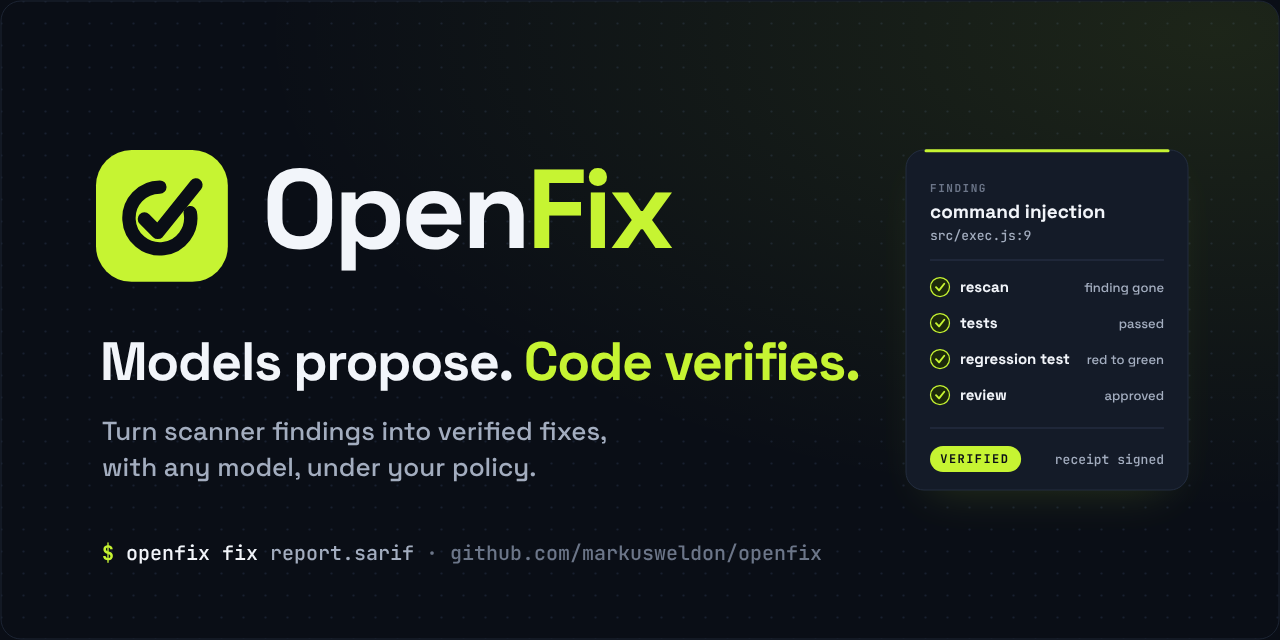
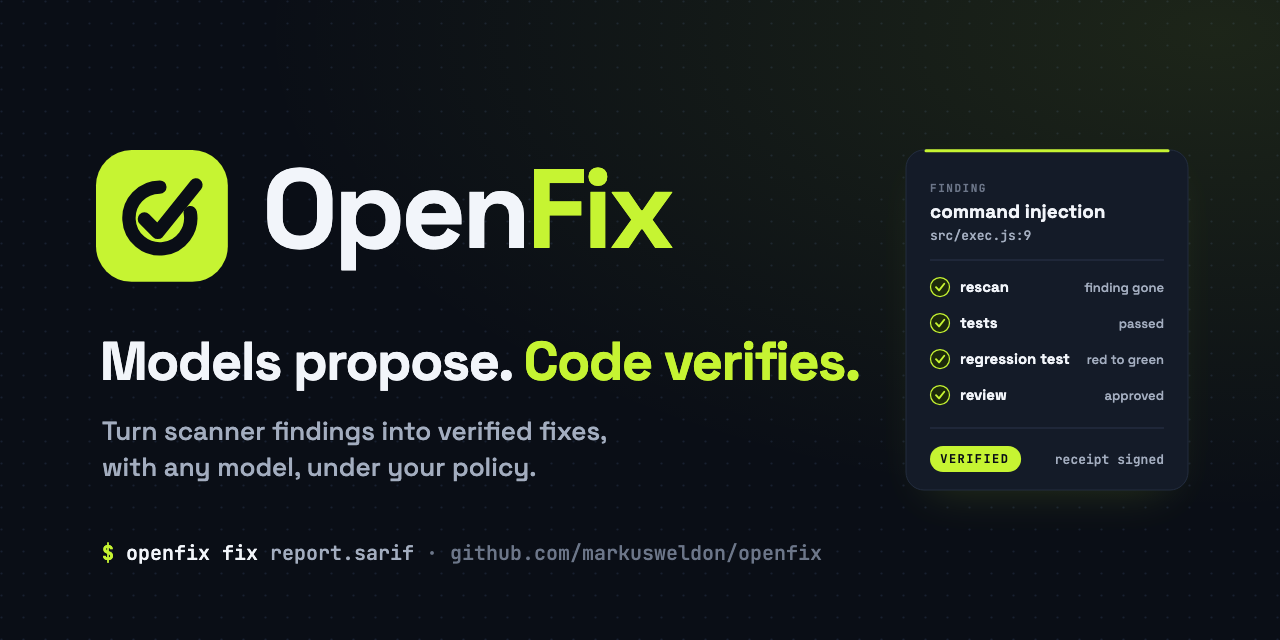
Render the social preview edge to edge
The social image drew the rounded, framed card used by the README
diagrams, which left a thin frame line around the link card. GitHub and
LinkedIn crop and round social images themselves, so it now fills the
whole canvas. The README images are unchanged.

diff --git a/docs/brand/build.py b/docs/brand/build.py
@@ -223,18 +223,22 @@ def mark(c: Canvas, x: float, y: float, size: float, tile: str, ink: str, rx_rat
     )
 
 
-def background(c: Canvas, T: dict, glow_at=(1.0, 0.0)) -> None:
+def background(c: Canvas, T: dict, glow_at=(1.0, 0.0), card: bool = True) -> None:
+    """The dot grid and glow. card=True draws a rounded, framed card; False fills edge to edge (social images,
+    which GitHub and LinkedIn crop and round themselves)."""
+    rx, inset = (20, 1) if card else (0, 0)
     c.defs.append(
         f'<pattern id="dots" width="22" height="22" patternUnits="userSpaceOnUse"><circle cx="1.5" cy="1.5" r="1.1" fill="{T["dot"]}"/></pattern>'
         f'<radialGradient id="glow" cx="{glow_at[0]}" cy="{glow_at[1]}" r="0.75"><stop offset="0" stop-color="{T["glow"]}" stop-opacity="{T["glow_opacity"]}"/><stop offset="1" stop-color="{T["glow"]}" stop-opacity="0"/></radialGradient>'
-        f'<clipPath id="frame"><rect x="1" y="1" width="{c.w - 2}" height="{c.h - 2}" rx="20"/></clipPath>'
+        f'<clipPath id="frame"><rect x="{inset}" y="{inset}" width="{c.w - 2 * inset}" height="{c.h - 2 * inset}" rx="{rx}"/></clipPath>'
     )
-    c.rect(1, 1, c.w - 2, c.h - 2, 20, T["bg"])
+    c.rect(inset, inset, c.w - 2 * inset, c.h - 2 * inset, rx, T["bg"])
     c.add('<g clip-path="url(#frame)">')
     c.rect(0, 0, c.w, c.h, fill="url(#dots)")
     c.rect(0, 0, c.w, c.h, fill="url(#glow)")
     c.add("</g>")
-    c.rect(1, 1, c.w - 2, c.h - 2, 20, "none", T["frame"])
+    if card:
+        c.rect(1, 1, c.w - 2, c.h - 2, 20, "none", T["frame"])
 
 
 def headline(c: Canvas, T: dict, x, y, size, plain: str, hl: str = "", ls=-0.02, weight=700) -> None:
@@ -692,7 +696,7 @@ for _T in THEMES.values():
 
 def social(T: dict) -> str:
     c = Canvas(1280, 640, "OpenFix")
-    background(c, T, glow_at=(0.95, 0.05))
+    background(c, T, glow_at=(0.95, 0.05), card=False)
     mark(c, 96, 150, 132, T["tile"], T["tile_ink"])
     headline(c, T, 262, 248, 112, "Open", "Fix", ls=-0.035)
     headline(c, T, 100, 380, 54, "Models propose. ", "Code verifies.", ls=-0.025)
